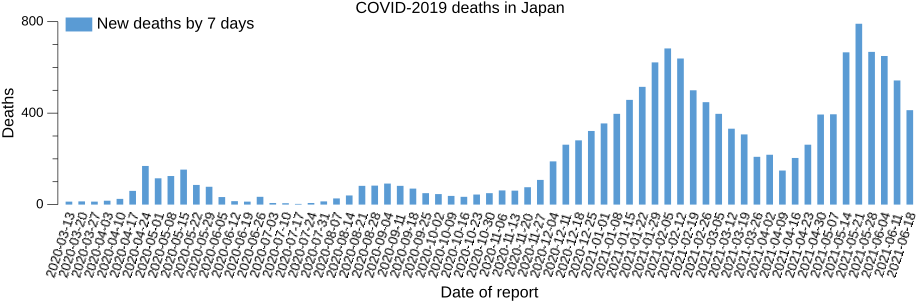
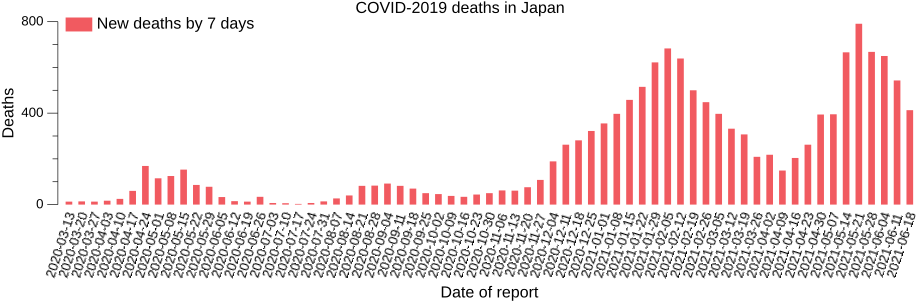
Modified charts

Changed region(s): [[0.3348, 0.0596, 1.0, 0.6854], [0.0609, 0.5364, 0.3043, 0.6854], [0.0609, 0.0596, 0.1217, 0.1192]]

diff --git a/chart/histgram.go b/chart/histgram.go
@@ -56,11 +56,14 @@ func BarChartHistCases(data []HistgramData, outPath string) error {
 	labelX := []string{}
 	dataY := plotter.Values{}
 	dataY2 := plotter.XYs{}
+	dataY3 := plotter.Values{}
 	maxCases := 0.0
 	for i, d := range data {
 		labelX = append(labelX, d.period.StringEnd())
 		dataY = append(dataY, d.cases)
 		maxCases = max(maxCases, d.cases)
+		dataY3 = append(dataY3, d.deaths)
+		maxCases = max(maxCases, d.deaths)
 		dataY2 = append(dataY2, plotter.XY{X: (float64)(i), Y: d.casesTokyo})
 		maxCases = max(maxCases, d.casesTokyo)
 	}
@@ -85,13 +88,22 @@ func BarChartHistCases(data []HistgramData, outPath string) error {
 	bar.Offset = 0
 	bar.Horizontal = false
 	p.Add(bar)
+	bar3, err := plotter.NewBarChart(dataY3, vg.Points(5))
+	if err != nil {
+		return errs.Wrap(err, errs.WithContext("outPath", outPath))
+	}
+	bar3.LineStyle.Width = vg.Length(0)
+	bar3.Color = plotutil.Color(7)
+	bar3.Offset = 0
+	bar3.Horizontal = false
+	p.Add(bar3)
 
 	//new line chart
 	line, err := plotter.NewLine(dataY2)
 	if err != nil {
 		return errs.Wrap(err, errs.WithContext("outPath", outPath))
 	}
-	line.Color = plotutil.Color(4)
+	line.Color = plotutil.Color(3)
 	p.Add(line)
 
 	//labels of X
@@ -110,6 +122,7 @@ func BarChartHistCases(data []HistgramData, outPath string) error {
 
 	//legend
 	p.Legend.Add("New confirmed cases by 7 days", bar)
+	p.Legend.Add("New deaths by 7 days", bar3)
 	p.Legend.Add("New positive PCR test results by 7 days in Tokyo", line)
 	p.Legend.Top = true  //top
 	p.Legend.Left = true //left
@@ -214,7 +227,7 @@ func BarChartHistDeaths(data []HistgramData, outPath string) error {
 		return errs.Wrap(err, errs.WithContext("outPath", outPath))
 	}
 	bar.LineStyle.Width = vg.Length(0)
-	bar.Color = plotutil.Color(2)
+	bar.Color = plotutil.Color(7)
 	bar.Offset = 0
 	bar.Horizontal = false
 	p.Add(bar)
